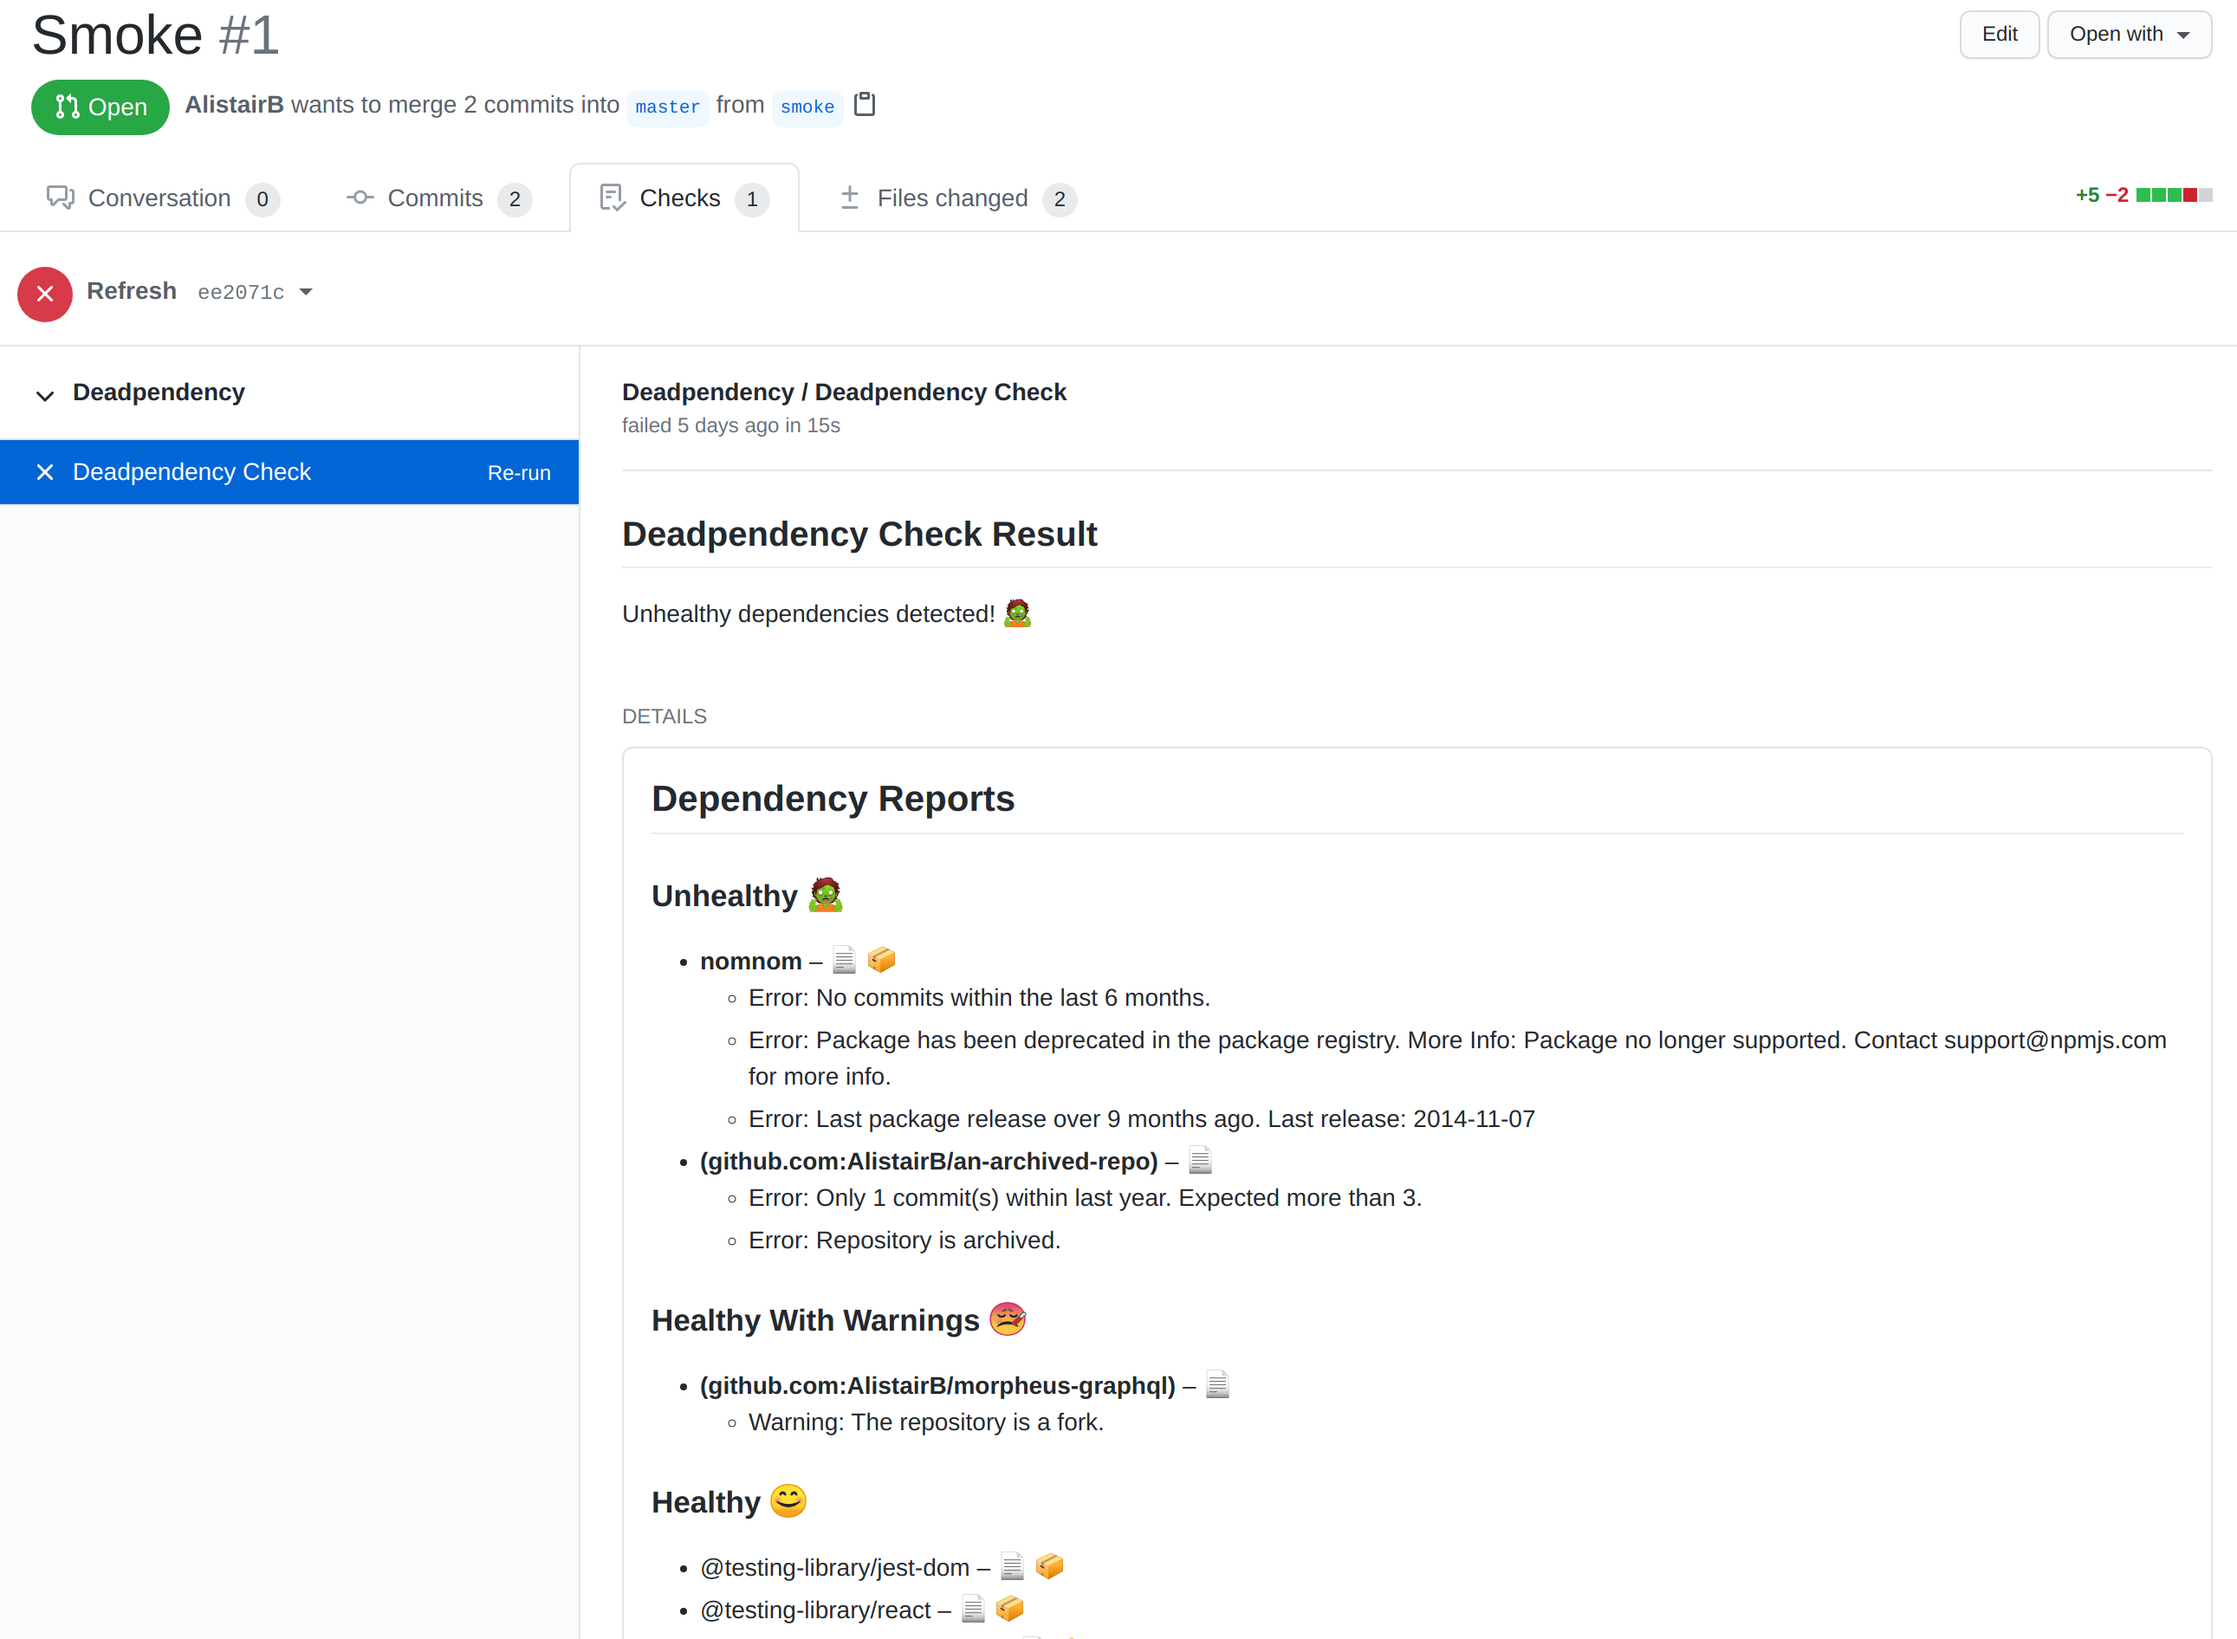
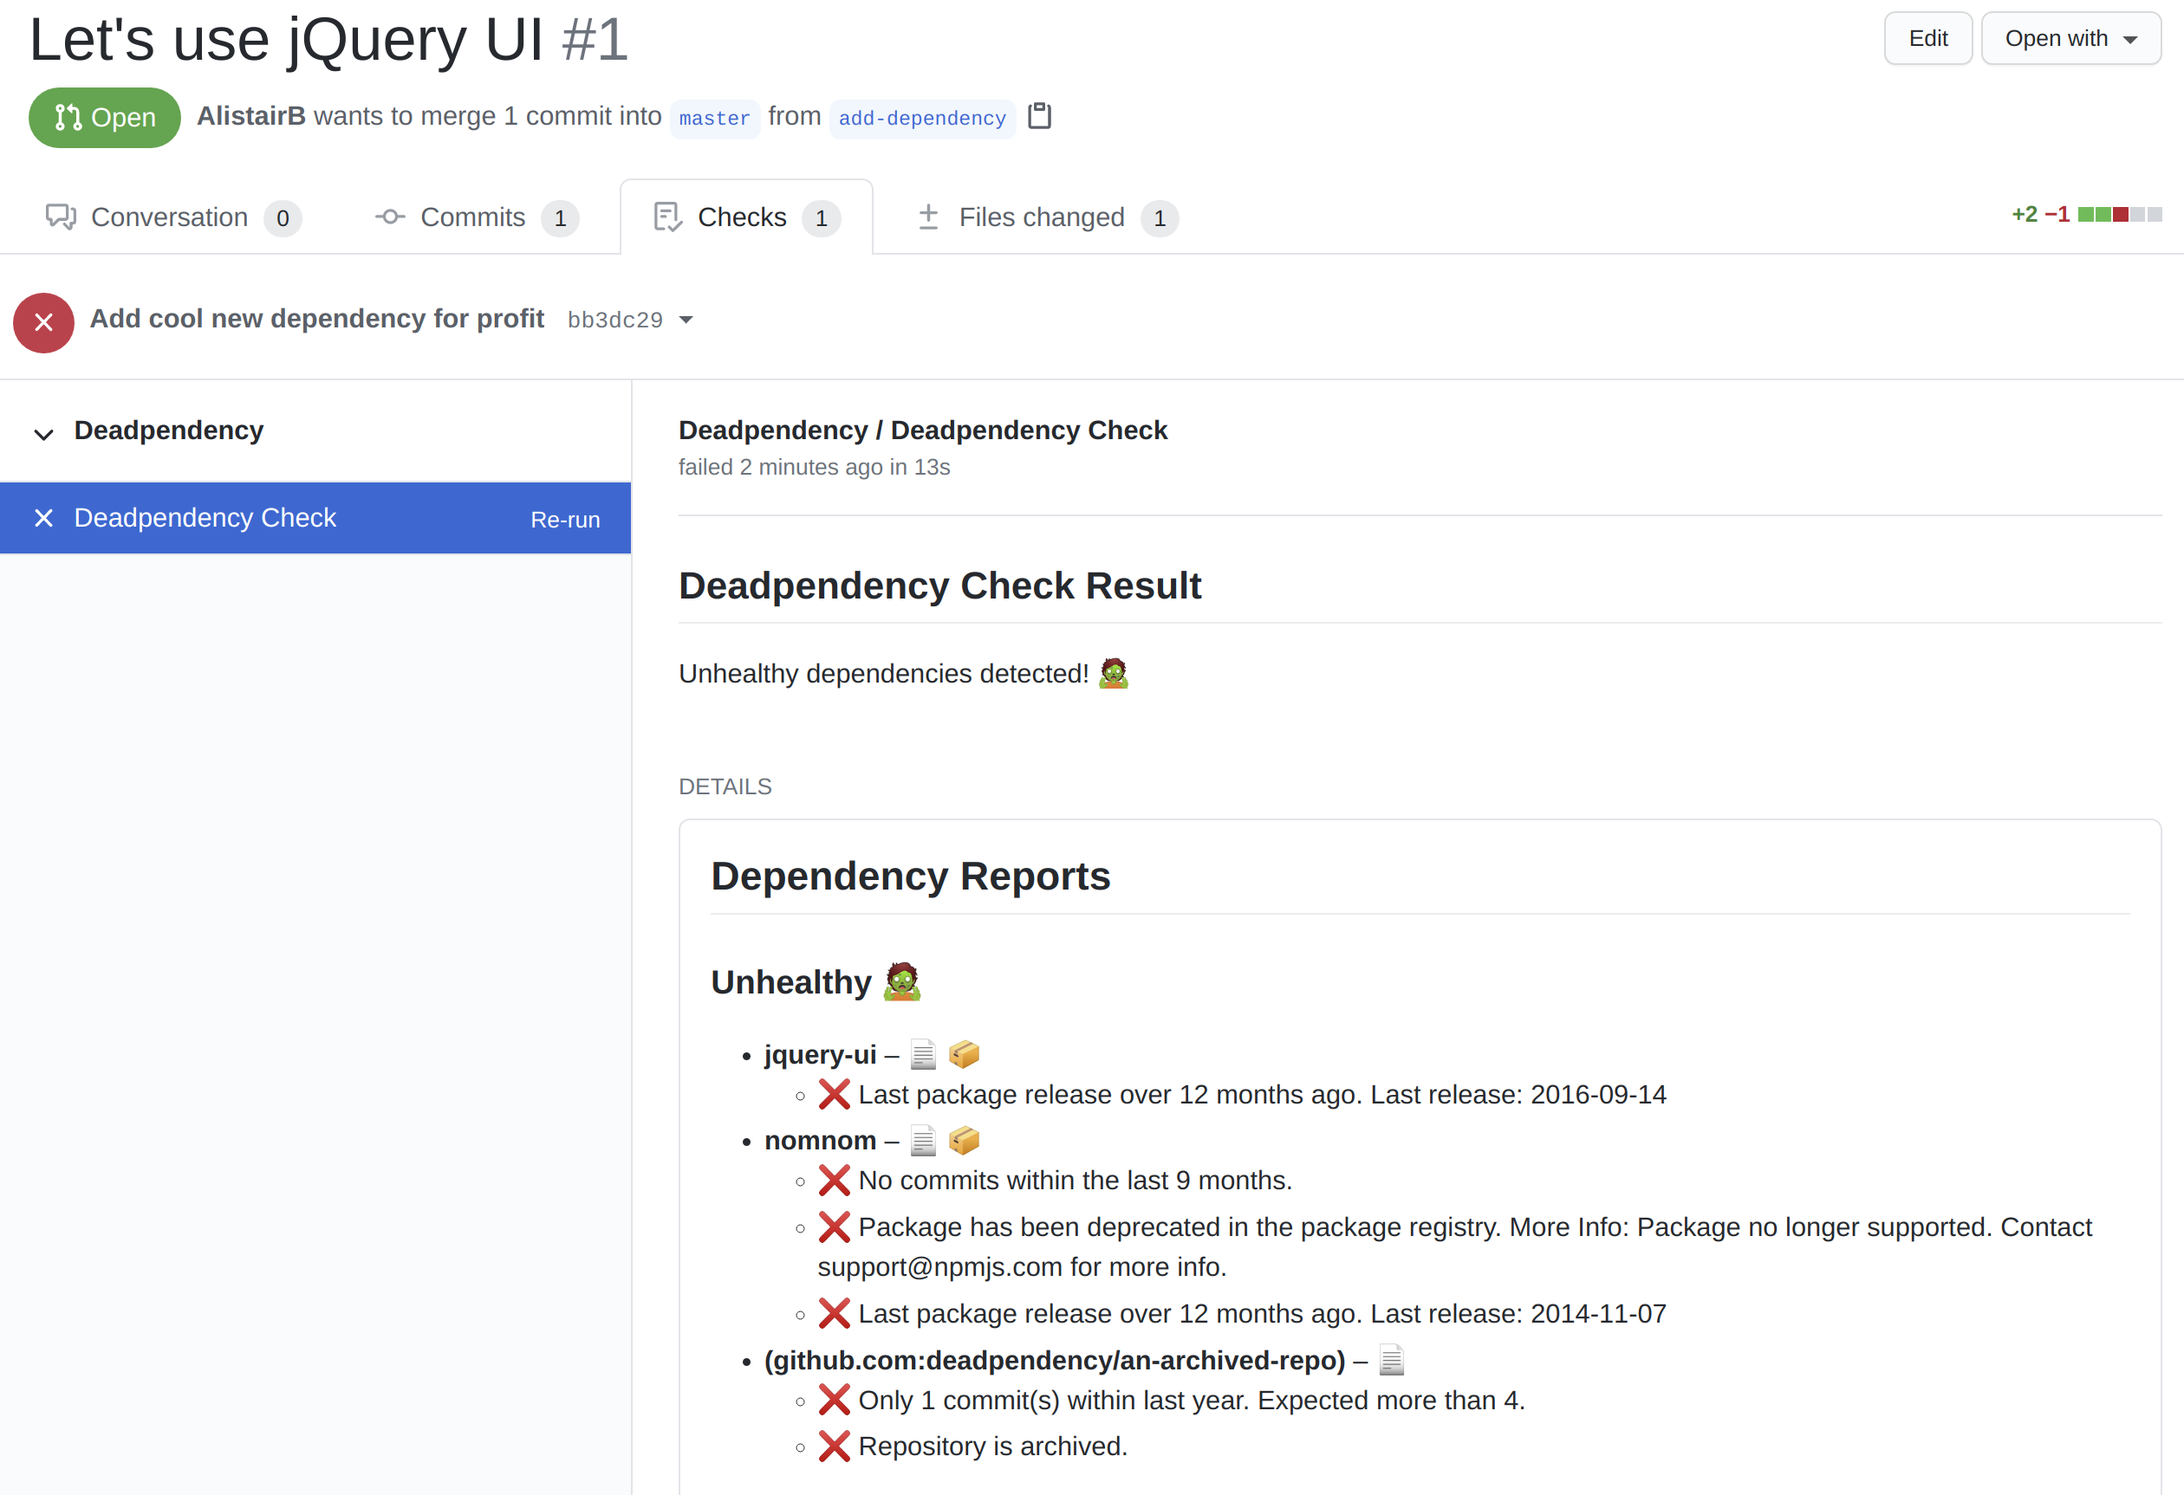
Update screenshot

diff --git a/usage.html b/usage.html
@@ -8,6 +8,10 @@ title: Deadpendency usage
 <div class="faq-page">
 <h1 class="mb-4"><span class="text-warning">Dead</span><span class="text-white">pendency</span> Usage</h1>
 
+<h2>Example</h2>
+
+See <a href="https://github.com/deadpendency/deadpendency-example" target="_blank">https://github.com/deadpendency/deadpendency-example</a> for a detailed example of using <span class="text-warning">Dead</span><span class="text-white">pendency</span>.
+
 <h2>Installation</h2>
 
 <p>

diff --git a/index.html b/index.html
@@ -30,7 +30,7 @@ title: Deadpendency - automated dependency health analysis
       </div>
     </div>
     <div class="row mt-5">
-      <img class="shadow-sm p-3 mb-5 bg-white rounded" src="/assets/image/deadpendency-example.png" />
+      <img class="shadow-sm p-3 mb-5 bg-white rounded" src="/assets/image/deadpendency-example2.png" />
     </div>
   </div>
   <div class="features row mt-5 mb-5">
